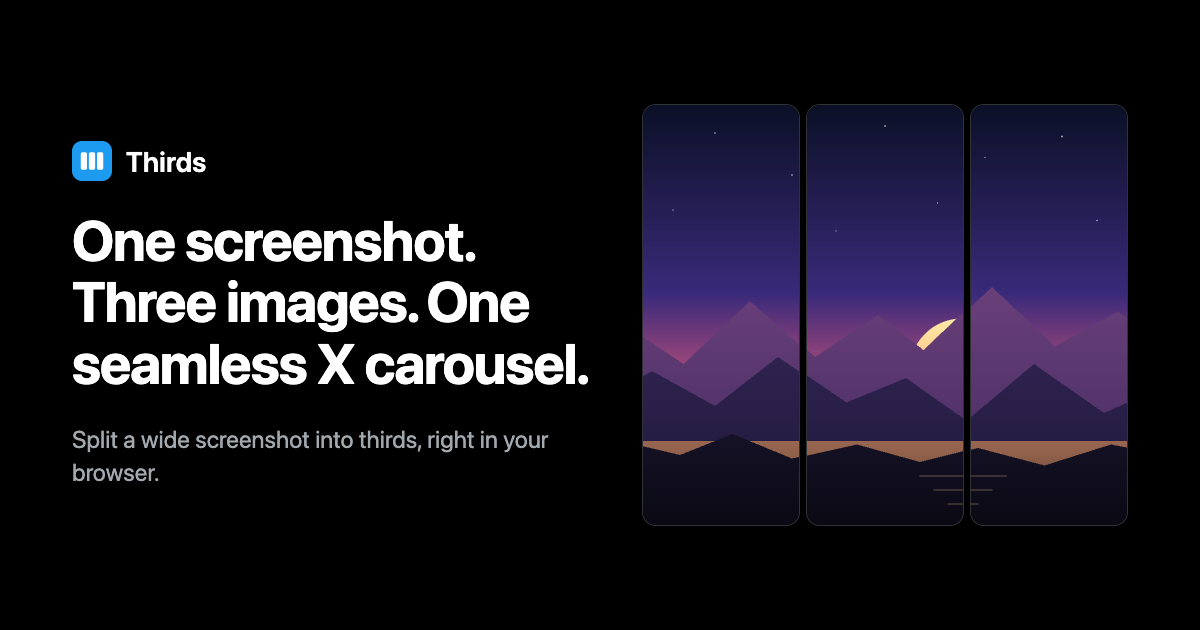
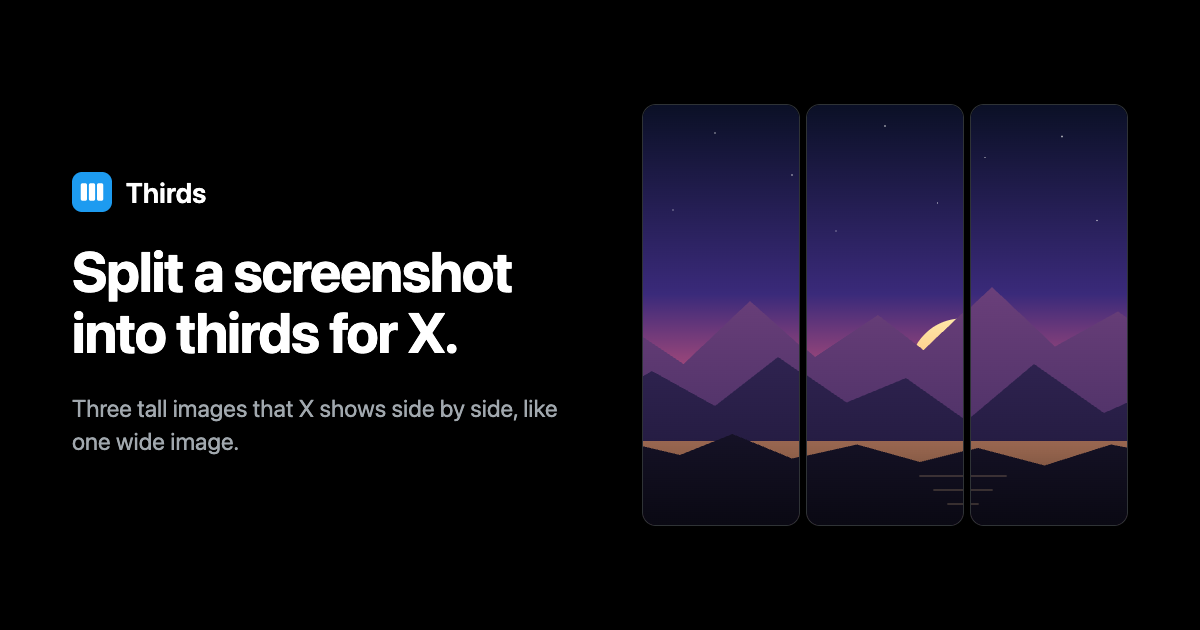
Rewrite the headline in plain words
Claude-Session: https://claude.ai/code/session_015syWUipxY65V2rkUnRoQUh

Changed region(s): [[0.0617, 0.2111, 0.4933, 0.7841]]

diff --git a/public/index.html b/public/index.html
@@ -4,12 +4,12 @@
   <meta charset="utf-8">
   <meta name="viewport" content="width=device-width, initial-scale=1">
   <title>Thirds</title>
-  <meta name="description" content="Split a wide screenshot into three tall images so X shows it as one seamless carousel.">
+  <meta name="description" content="Split a wide screenshot into three tall images that X shows side by side.">
   <meta name="color-scheme" content="dark">
   <meta property="og:type" content="website">
   <meta property="og:url" content="https://thirds.static.miho.dev/">
   <meta property="og:title" content="Thirds">
-  <meta property="og:description" content="Split a wide screenshot into three tall images so X shows it as one seamless carousel.">
+  <meta property="og:description" content="Split a wide screenshot into three tall images that X shows side by side.">
   <meta property="og:image" content="https://thirds.static.miho.dev/og.png">
   <meta property="og:image:width" content="1200">
   <meta property="og:image:height" content="630">
@@ -30,10 +30,10 @@
     </nav>
 
     <header class="hero">
-      <h1>Post a wide screenshot on X as one seamless panorama.</h1>
+      <h1>Split a screenshot into thirds for X.</h1>
       <p>
-        Drop it here and get three tall images. Attach them to a post in order and the X carousel
-        stitches them back together.
+        You get three tall images. Post them in order and X shows them side by side,
+        like one wide image.
       </p>
     </header>
 
@@ -45,7 +45,7 @@
         <rect class="glyph-slice" x="66" y="4" width="28" height="40" rx="4"/>
       </svg>
       <span class="button button-primary">Choose screenshot</span>
-      <p class="dropzone-hint">or drop it here, or paste with <kbd>⌘</kbd><kbd>V</kbd></p>
+      <p class="dropzone-hint">Drop a file here or paste with <kbd>⌘</kbd><kbd>V</kbd></p>
     </section>
 
     <section class="report" id="report" hidden aria-live="polite"></section>
@@ -91,11 +91,11 @@
       </div>
 
       <div class="section">
-        <h2 class="eyebrow">Your three images</h2>
+        <h2 class="eyebrow">Three images</h2>
         <div class="downloads" id="downloads"></div>
         <div class="download-actions">
           <button class="button button-primary" id="download-all">Download all three</button>
-          <p class="hint">Attach them to your post in this order.</p>
+          <p class="hint">Post them in this order.</p>
         </div>
       </div>
     </section>

diff --git a/assets/og.html b/assets/og.html
@@ -25,8 +25,8 @@
         <svg viewBox="0 0 32 32"><rect width="32" height="32" rx="8" fill="#1d9bf0"/><rect x="7" y="9" width="5" height="14" rx="1.5" fill="#fff"/><rect x="13.5" y="9" width="5" height="14" rx="1.5" fill="#fff"/><rect x="20" y="9" width="5" height="14" rx="1.5" fill="#fff"/></svg>
         Thirds
       </div>
-      <h1>One screenshot. Three images. One seamless X carousel.</h1>
-      <p>Split a wide screenshot into thirds, right in your browser.</p>
+      <h1>Split a screenshot into thirds for X.</h1>
+      <p>Three tall images that X shows side by side, like one wide image.</p>
     </div>
     <div class="strips">
       <div class="strip"><img src="scene.svg" alt=""></div>
